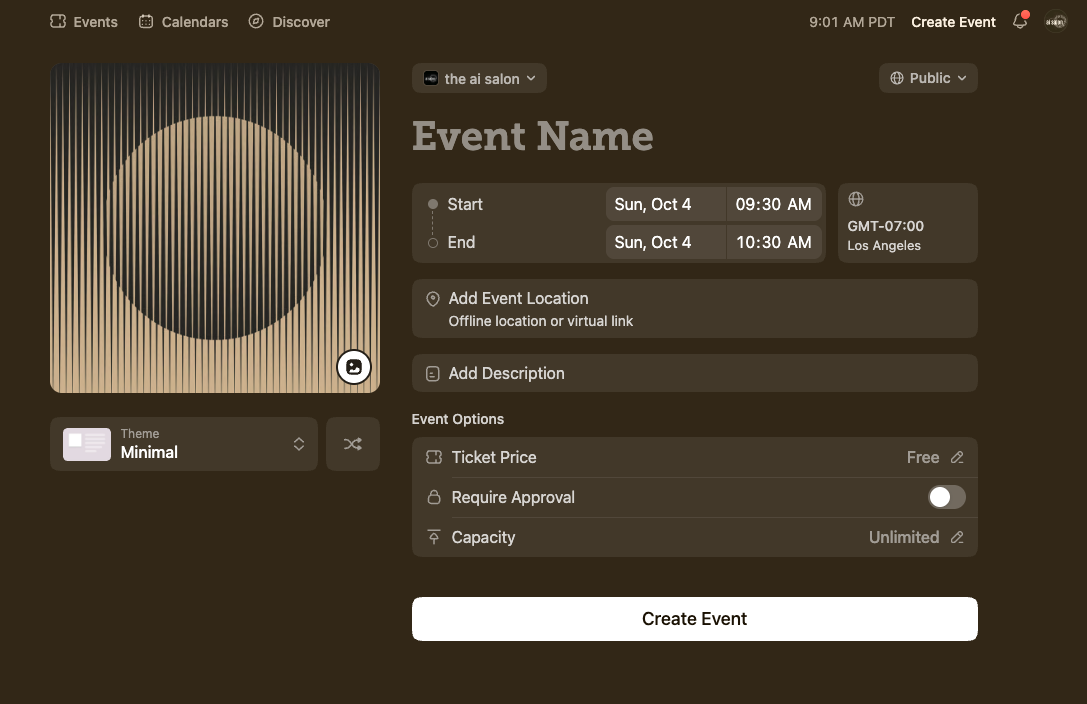
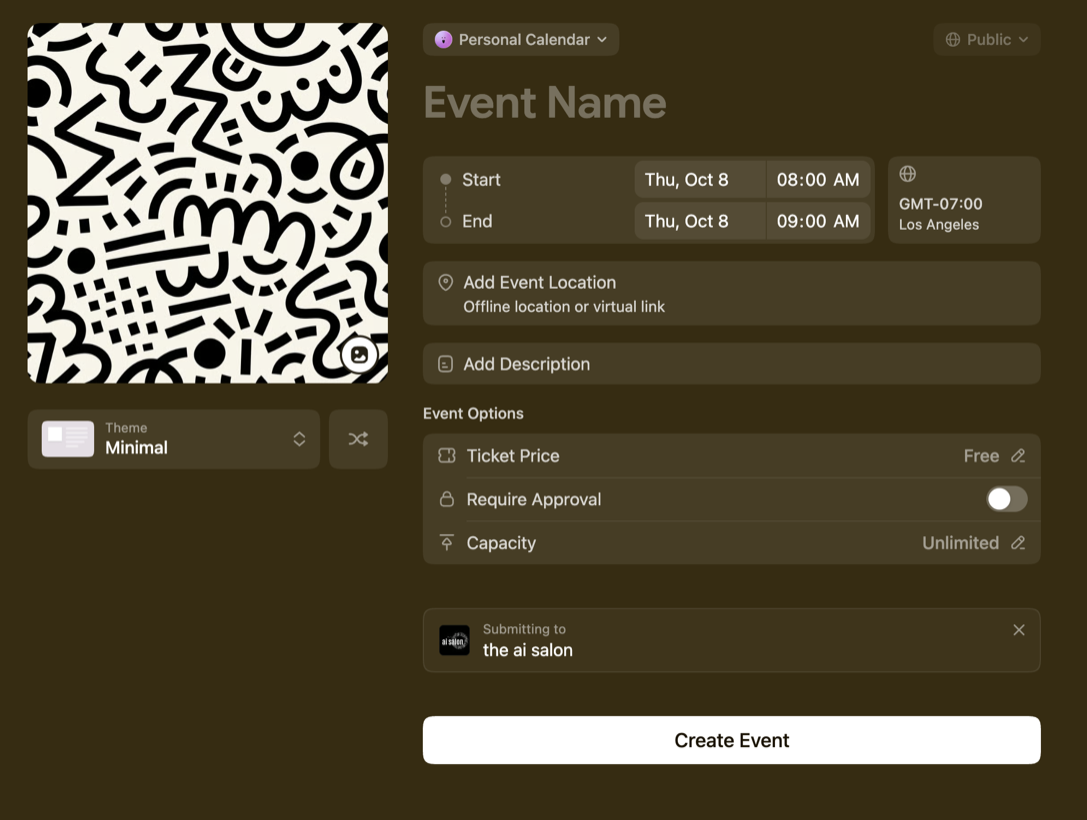
feat(onboarding): submit-to-calendar and optional private step come last in Luma walkthrough
Luma's create page now shows 'Submitting to the ai salon' at the bottom, and
private events can't be submitted to third-party calendars. Move the calendar
confirmation and a new optional 'Change visibility to Private' step to just
before Create Event (with instructions to remove the submission request), and
add an after-creation step for going public and using Add Existing Luma Event
on luma.com/ai-salon. Refresh the create-page screenshot and pins.

diff --git a/frontend/src/app/(admin)/dashboard/LumaWalkthrough.tsx b/frontend/src/app/(admin)/dashboard/LumaWalkthrough.tsx
@@ -27,11 +27,11 @@ const CREATE_PAGE: Shot = {
   src: "/images/luma/create-page.png",
   alt: "Luma Create Event page with numbered pointers",
   width: 1087,
-  height: 704,
+  height: 820,
 };
 
 // Pins sit in the gutter left of Luma's form fields so they never cover the label.
-const RAIL_X = 36.6;
+const RAIL_X = 37.3;
 
 function buildSteps({
   eventTitle,
@@ -44,27 +44,6 @@ function buildSteps({
 }): { onCreatePage: Step[]; afterCreate: Step[] } {
   const onCreatePage: Step[] = [
     {
-      id: "calendar",
-      title: "Check it's under “the ai salon”",
-      detail: (
-        <>
-          The calendar picker at the top. Our Create link pre-selects it — just confirm it didn&apos;t switch to your
-          personal calendar. Already created the event somewhere else? Go to{" "}
-          <a href="https://luma.com/ai-salon" target="_blank" rel="noopener noreferrer" style={{ color: "#56a1d2" }}>
-            luma.com/ai-salon
-          </a>{" "}
-          → <strong>Add Event</strong> → <strong>Add Existing Luma Event</strong> and select it.
-        </>
-      ),
-      pin: { x: RAIL_X, y: 11.1 },
-    },
-    {
-      id: "visibility",
-      title: "Set visibility to Private",
-      detail: "Top-right dropdown: Public → Private. You'll go public 2–3 weeks before the event (last step).",
-      pin: { x: 91.2, y: 11.1 },
-    },
-    {
       id: "name",
       title: "Add the event title",
       detail: (
@@ -73,19 +52,19 @@ function buildSteps({
           <CopyBox content={eventTitle || "Ai Salon: [Theme]"} />
         </>
       ),
-      pin: { x: RAIL_X, y: 19.3 },
+      pin: { x: RAIL_X, y: 12.5 },
     },
     {
       id: "time",
       title: "Set the date & time",
       detail: "Start and end should match the run of show in your description. Check the timezone box on the right.",
-      pin: { x: RAIL_X, y: 31.5 },
+      pin: { x: RAIL_X, y: 24.3 },
     },
     {
       id: "location",
       title: "Add the location",
       detail: "Fine to add later if the venue isn't locked. Keep the address hidden until guests are approved.",
-      pin: { x: RAIL_X, y: 43.8 },
+      pin: { x: RAIL_X, y: 35.7 },
     },
     {
       id: "description",
@@ -97,19 +76,19 @@ function buildSteps({
           <MarkdownCopyBox content={eventDescription} maxHeight={240} />
         </>
       ),
-      pin: { x: RAIL_X, y: 53 },
+      pin: { x: RAIL_X, y: 44.3 },
     },
     {
       id: "approval",
       title: "Turn on Require Approval",
       detail: "This is how you curate the room — you'll review every registration. Expect to approve about half: accept 20–30 for 15 attendees. Leave Ticket Price as Free.",
-      pin: { x: RAIL_X, y: 70.6 },
+      pin: { x: RAIL_X, y: 60.9 },
     },
     {
       id: "capacity",
       title: "Limit capacity",
       detail: "Click Capacity → toggle Limit Event Capacity → set Max Capacity to your room size (usually 15–20). Only approved guests count toward it. Leave the waitlist off.",
-      pin: { x: RAIL_X, y: 76.3 },
+      pin: { x: RAIL_X, y: 66.2 },
       shot: {
         src: "/images/luma/capacity.png",
         alt: "Luma Max Capacity dialog with Limit Event Capacity turned on",
@@ -118,10 +97,35 @@ function buildSteps({
       },
     },
     {
+      id: "calendar",
+      title: "Confirm it says “Submitting to the ai salon”",
+      detail: (
+        <>
+          The banner just above <strong>Create Event</strong>. Our Create link pre-fills it — leave it as is (don&apos;t
+          click the ✕). The calendar picker at the top will say <strong>Personal Calendar</strong>; that&apos;s normal.
+        </>
+      ),
+      pin: { x: RAIL_X, y: 78 },
+    },
+    {
+      id: "visibility",
+      title: "(Optional) Change visibility to Private",
+      detail: (
+        <>
+          Top-right dropdown: <strong>Public → Private</strong>. Skip this if you&apos;re ready to go public — just tick
+          it. If you aren&apos;t, you can keep the event private for now. Luma doesn&apos;t allow private events to be
+          submitted to third-party calendars, so you won&apos;t be able to submit to the Ai Salon calendar yet:{" "}
+          <strong>click the ✕ on the “Submitting to the ai salon” banner to remove the request</strong>, then add the
+          event to the calendar once it&apos;s public (see the last step below).
+        </>
+      ),
+      pin: { x: 85, y: 4.8 },
+    },
+    {
       id: "create",
       title: "Click Create Event",
       detail: "Luma opens your event's management page — the rest happens there.",
-      pin: { x: RAIL_X, y: 87.9 },
+      pin: { x: RAIL_X, y: 90.3 },
     },
   ];
 
@@ -160,8 +164,25 @@ function buildSteps({
     },
     {
       id: "public",
-      title: "Go public 2–3 weeks out",
-      detail: "Switch visibility back to Public once the description is final. You don't need the address yet.",
+      title: "If it's private: go public and add it to the Ai Salon calendar",
+      detail: (
+        <>
+          Skip this if you left the event public and submitted it when you created it. Otherwise, once the description
+          is final (2–3 weeks out — you don&apos;t need the address yet), switch visibility to <strong>Public</strong>,
+          then go to{" "}
+          <a href="https://luma.com/ai-salon" target="_blank" rel="noopener noreferrer" style={{ color: "#56a1d2" }}>
+            luma.com/ai-salon
+          </a>{" "}
+          → <strong>Add Event</strong> → <strong>Add Existing Luma Event</strong> and select it. The core team will
+          approve it from there.
+        </>
+      ),
+      shot: {
+        src: "/images/luma/add-existing-event.png",
+        alt: "Luma Ai Salon calendar page with the Add Event menu open to Add Existing Luma Event",
+        width: 1000,
+        height: 490,
+      },
     },
   ];
 

diff --git a/frontend/src/app/(admin)/dashboard/LumaWalkthrough.test.tsx b/frontend/src/app/(admin)/dashboard/LumaWalkthrough.test.tsx
@@ -9,14 +9,14 @@ const PROPS = {
 }
 
 const CREATE_PAGE_STEPS = [
-  /check it's under/i,
-  /set visibility to private/i,
   /add the event title/i,
   /set the date & time/i,
   /add the location/i,
   /fill out the description/i,
   /turn on require approval/i,
   /limit capacity/i,
+  /confirm it says/i,
+  /change visibility to private/i,
   /click create event/i,
 ]
 
@@ -28,12 +28,12 @@ describe('LumaWalkthrough', () => {
   it('annotates the Luma create page with numbered pointers', () => {
     render(<LumaWalkthrough {...PROPS} />)
     expect(screen.getByRole('img', { name: /luma create event page/i })).toBeInTheDocument()
-    expect(screen.getByRole('button', { name: /pointer 7: turn on require approval/i })).toBeInTheDocument()
+    expect(screen.getByRole('button', { name: /pointer 5: turn on require approval/i })).toBeInTheDocument()
   })
 
   it('clicking a pointer highlights its checklist step', () => {
     render(<LumaWalkthrough {...PROPS} />)
-    fireEvent.click(screen.getByRole('button', { name: /pointer 8: limit capacity/i }))
+    fireEvent.click(screen.getByRole('button', { name: /pointer 6: limit capacity/i }))
     expect(screen.getByTestId('luma-step-capacity')).toHaveAttribute('data-active', 'true')
   })
 
@@ -84,18 +84,40 @@ describe('LumaWalkthrough', () => {
     render(<LumaWalkthrough {...PROPS} />)
     const total = screen.getAllByRole('checkbox').length
     expect(screen.getByText(`0 of ${total} done`)).toBeInTheDocument()
-    fireEvent.click(screen.getByRole('checkbox', { name: /set visibility to private/i }))
+    fireEvent.click(screen.getByRole('checkbox', { name: /change visibility to private/i }))
     expect(screen.getByText(`1 of ${total} done`)).toBeInTheDocument()
   })
 
-  it('tells hosts to add contact@aisalon.xyz as a Manager, and how to add an existing event', () => {
+  it('tells hosts to add contact@aisalon.xyz as a Manager', () => {
     render(<LumaWalkthrough {...PROPS} />)
     expect(step('cohost').getByText('Manager')).toBeInTheDocument()
-    expect(step('calendar').getByText(/add existing luma event/i)).toBeInTheDocument()
-    expect(step('calendar').getByRole('link', { name: /luma\.com\/ai-salon/i })).toHaveAttribute(
+  })
+
+  it('puts the Ai Salon submission and the optional private step last, just before Create Event', () => {
+    render(<LumaWalkthrough {...PROPS} />)
+    const ids = screen
+      .getAllByTestId(/^luma-step-/)
+      .map((el) => el.getAttribute('data-testid'))
+      .slice(0, 9)
+    expect(ids.slice(-3)).toEqual(['luma-step-calendar', 'luma-step-visibility', 'luma-step-create'])
+    expect(step('calendar').getByText(/submitting to the ai salon/i)).toBeInTheDocument()
+  })
+
+  it('explains that private events cannot be submitted, so the request must be removed', () => {
+    render(<LumaWalkthrough {...PROPS} />)
+    expect(step('visibility').getByText(/optional/i)).toBeInTheDocument()
+    expect(step('visibility').getByText(/doesn.t allow private events to be submitted/i)).toBeInTheDocument()
+    expect(step('visibility').getByText(/remove the request/i)).toBeInTheDocument()
+  })
+
+  it('after creation, tells private-event hosts how to go public and add it to the Ai Salon calendar', () => {
+    render(<LumaWalkthrough {...PROPS} />)
+    expect(step('public').getByText(/add existing luma event/i)).toBeInTheDocument()
+    expect(step('public').getByRole('link', { name: /luma\.com\/ai-salon/i })).toHaveAttribute(
       'href',
       'https://luma.com/ai-salon'
     )
+    expect(screen.getByRole('img', { name: /add event menu/i })).toBeInTheDocument()
   })
 
   it('has no tagging step (hosts cannot tag on the Ai Salon calendar)', () => {

diff --git a/frontend/src/app/(admin)/dashboard/WelcomeDashboard.tsx b/frontend/src/app/(admin)/dashboard/WelcomeDashboard.tsx
@@ -360,9 +360,14 @@ function HostingGuide({
           </p>
           <ul style={{ margin: 0, paddingLeft: 18, fontSize: 13, color: "#444", lineHeight: 1.9 }}>
             <li>
-              Create the event early — set visibility to <strong>private</strong> first
+              Create the event early. If you&apos;re not ready to go public, set it to <strong>private</strong> — but
+              Luma won&apos;t let private events be submitted to the Ai Salon calendar, so remove the submission
+              request first
             </li>
-            <li>Go public 2–3 weeks before (you can do this before you have the location)</li>
+            <li>
+              Go public 2–3 weeks before (you can do this before you have the location), then add it via{" "}
+              <strong>Add Existing Luma Event</strong> on luma.com/ai-salon
+            </li>
             <li>Require approval; hide the address until approved</li>
             <li>Add registration questions to help curate attendees</li>
           </ul>
